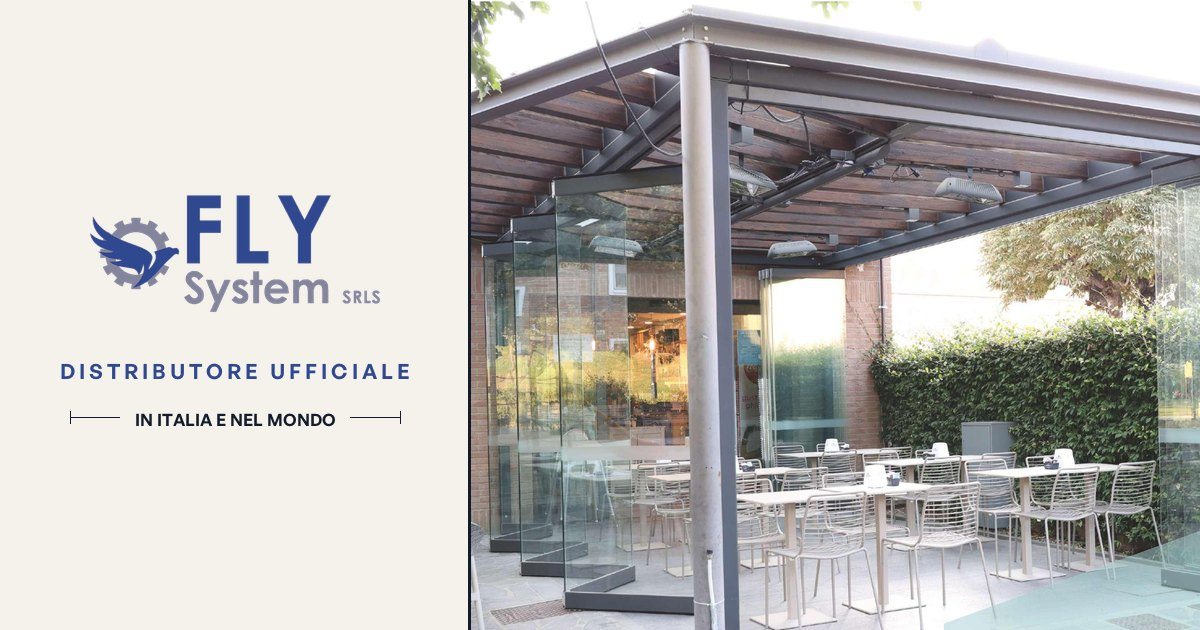
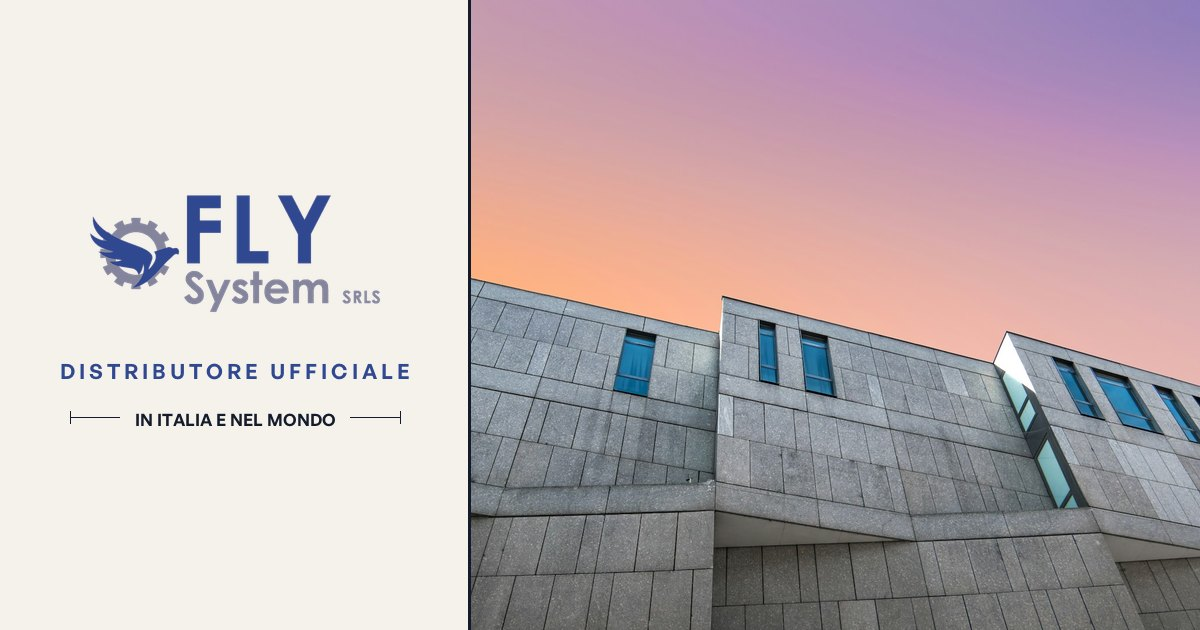
Hero edificio dal vecchio sito e ottimizzazione mobile spinta
Hero home ora usa l'edificio al tramonto del vecchio sito (fascia a tutta
larghezza, [phone redacted], OG rigenerata). Mobile: ritmo verticale piu compatto,
fatti 2x2, fasce fotografiche piu contenute, micro-riga header nascosta
sotto i 360px. Nessun overflow da 320 a 768, verificato anche su WebKit.

diff --git a/assets/css/style.css b/assets/css/style.css
@@ -1266,6 +1266,7 @@
     inline-size: 100%;
     block-size: clamp(380px, 74vh, 780px);
     object-fit: cover;
+    object-position: center 42%;
   }
 
   .hero-band .fig {
@@ -1868,6 +1869,12 @@
   }
 
   @media (max-width: 640px) {
+    /* ritmo verticale piu compatto sui telefoni */
+    :root {
+      --sect: clamp(60px, 13vw, 88px);
+      --sect-s: clamp(44px, 9vw, 64px);
+    }
+
     .prof-grid {
       grid-template-columns: 1fr;
     }
@@ -1882,10 +1889,19 @@
       gap: 8px 16px;
     }
 
+    /* fasce fotografiche piu contenute: i contenuti sotto la piega si intravedono */
+    .hero-band img {
+      block-size: clamp(300px, 56vh, 460px);
+    }
+
+    .photo-band img {
+      block-size: clamp(240px, 46vh, 400px);
+    }
+
     .facts {
-      grid-template-columns: 1fr;
-      gap: 18px;
-      padding-block: 32px;
+      grid-template-columns: 1fr 1fr;
+      gap: 18px 24px;
+      padding-block: 28px;
     }
 
     .contact-form .row-2 {
@@ -1895,6 +1911,13 @@
     .spec-block > div {
       grid-template-columns: 1fr;
       gap: 6px;
+    }
+  }
+
+  @media (max-width: 360px) {
+    /* schermi molto stretti: nascondi la micro-riga sotto il logo per non affollare l'header */
+    .brand__tag {
+      display: none;
     }
   }
 }

diff --git a/index.html b/index.html
@@ -18,7 +18,7 @@
   <link rel="apple-touch-icon" href="assets/img/apple-touch-icon.png">
   <link rel="preload" href="assets/fonts/Zodiak-Regular.woff2" as="font" type="font/woff2" crossorigin>
   <link rel="preload" href="assets/fonts/GeneralSans-Regular.woff2" as="font" type="font/woff2" crossorigin>
-  <link rel="preload" as="image" type="image/avif" imagesrcset="assets/img/home/hero-cortile-480.avif 480w, assets/img/home/hero-cortile-960.avif 960w, assets/img/home/hero-cortile-1600.avif 1600w" imagesizes="100vw">
+  <link rel="preload" as="image" type="image/avif" imagesrcset="assets/img/home/hero-edificio-480.avif 480w, assets/img/home/hero-edificio-960.avif 960w, assets/img/home/hero-edificio-1600.avif 1600w, assets/img/home/hero-edificio-1920.avif 1920w" imagesizes="100vw">
   <link rel="stylesheet" href="assets/css/style.css">
 </head>
 <body>
@@ -80,11 +80,10 @@
       </div>
       <figure class="hero-band rv-img">
         <picture>
-          <source type="image/avif" srcset="assets/img/home/hero-cortile-480.avif 480w, assets/img/home/hero-cortile-960.avif 960w, assets/img/home/hero-cortile-1600.avif 1600w" sizes="100vw">
-          <source type="image/webp" srcset="assets/img/home/hero-cortile-480.webp 480w, assets/img/home/hero-cortile-960.webp 960w, assets/img/home/hero-cortile-1600.webp 1600w" sizes="100vw">
-          <img src="assets/img/home/hero-cortile-960.jpg" srcset="assets/img/home/hero-cortile-480.jpg 480w, assets/img/home/hero-cortile-960.jpg 960w, assets/img/home/hero-cortile-1600.jpg 1600w" sizes="100vw" width="1781" height="1339" alt="Vetrata panoramica pieghevole aperta su un cortile interno con tavolini da ristorante" fetchpriority="high">
+          <source type="image/avif" srcset="assets/img/home/hero-edificio-480.avif 480w, assets/img/home/hero-edificio-960.avif 960w, assets/img/home/hero-edificio-1600.avif 1600w, assets/img/home/hero-edificio-1920.avif 1920w" sizes="100vw">
+          <source type="image/webp" srcset="assets/img/home/hero-edificio-480.webp 480w, assets/img/home/hero-edificio-960.webp 960w, assets/img/home/hero-edificio-1600.webp 1600w, assets/img/home/hero-edificio-1920.webp 1920w" sizes="100vw">
+          <img src="assets/img/home/hero-edificio-960.jpg" srcset="assets/img/home/hero-edificio-480.jpg 480w, assets/img/home/hero-edificio-960.jpg 960w, assets/img/home/hero-edificio-1600.jpg 1600w, assets/img/home/hero-edificio-1920.jpg 1920w" sizes="100vw" width="1920" height="1080" alt="Edificio contemporaneo con facciate e serramenti al tramonto" fetchpriority="high">
         </picture>
-        <figcaption class="fig wrap"><b>Fig.&nbsp;01</b> · Vetrata panoramica, cortile interno</figcaption>
       </figure>
     </section>
 

diff --git a/tools/make_og.py b/tools/make_og.py
@@ -13,9 +13,8 @@ def main(hero_p: Path, logo_p: Path, font_p: Path, out: Path):
     W, H, PANEL = 1200, 630, 470
     canvas = Image.new("RGB", (W, H), PAPER)
 
-    # photo right, cover-cropped
+    # photo right, cover-cropped (generic cover: works for any source aspect)
     hero = Image.open(hero_p).convert("RGB")
-    hero = hero.crop((int(0.033 * hero.width), 0, int(0.775 * hero.width), int(0.79 * hero.height)))
     target_w, target_h = W - PANEL, H
     scale = max(target_w / hero.width, target_h / hero.height)
     hero = hero.resize((int(hero.width * scale), int(hero.height * scale)), Image.LANCZOS)